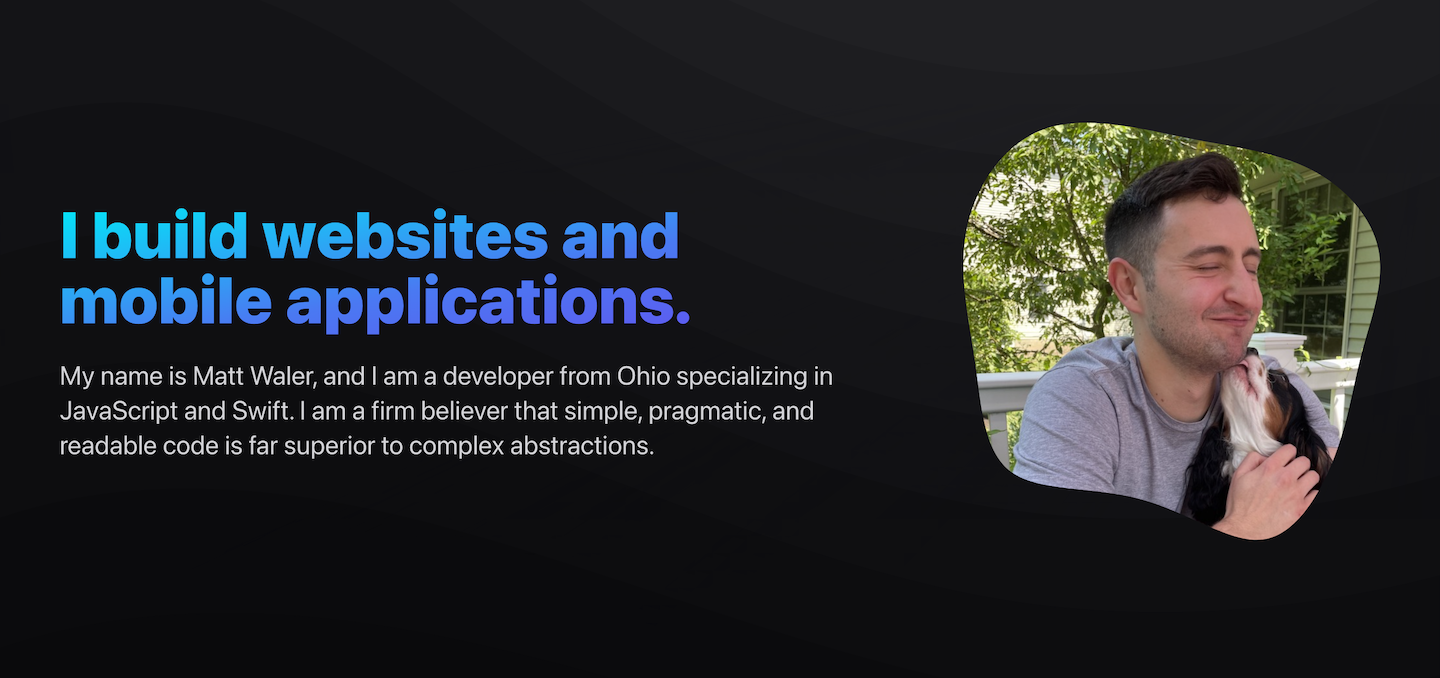
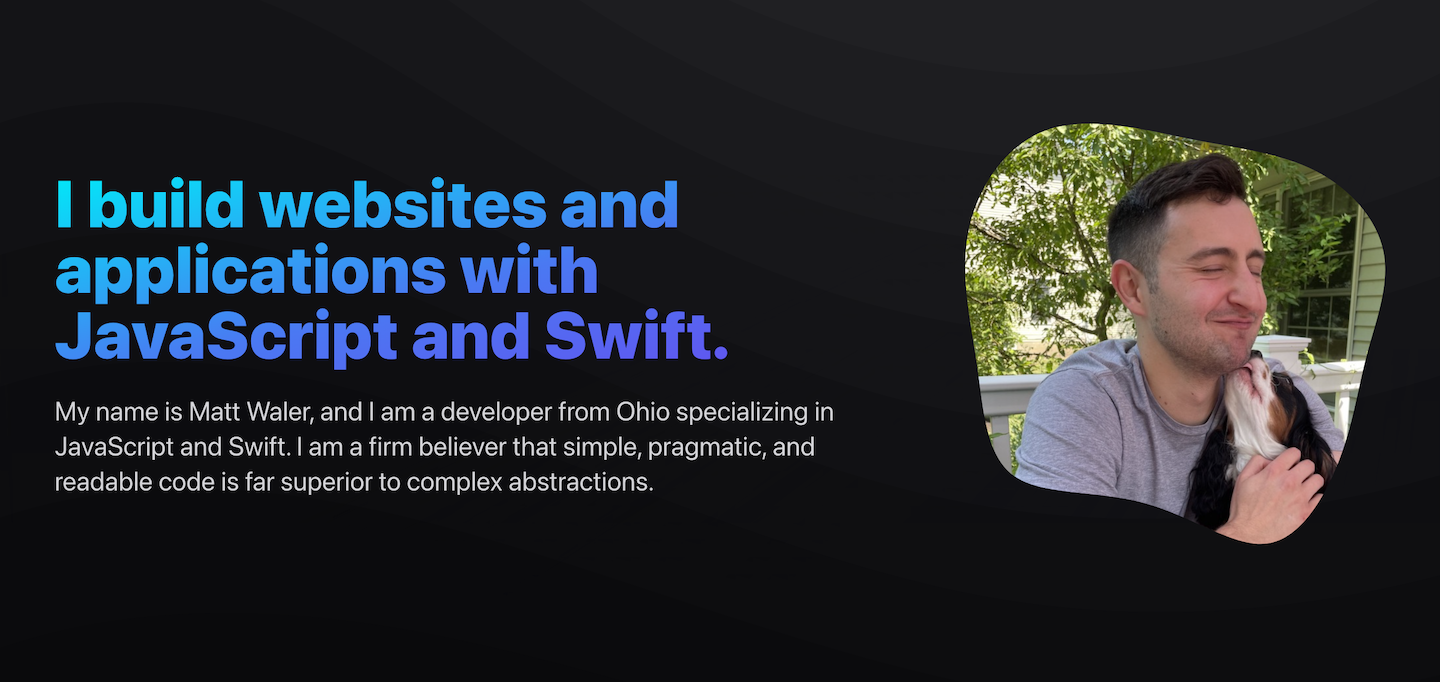
Page title and OG image updates

diff --git a/app/websites/page.tsx b/app/websites/page.tsx
@@ -4,9 +4,9 @@ import Contact from 'components/ContactCTA'
 
 export const metadata = {
   alternates: {
-    canonical: 'https://mattwaler.com/websites'
+    canonical: 'https://mattwaler.com/websites',
   },
-  title: 'I create highly engaging and authorable web experiences',
+  title: 'Matt Waler creates highly engaging and authorable web experiences',
   description:
     'I have built a lot of websites since I got started in 2016. Listed below is a non-exhaustive representation of what I have developed and deployed recently.',
 }
@@ -14,7 +14,10 @@ export const metadata = {
 export default function Work() {
   return (
     <>
-      <Hero heading={`${metadata.title}.`} paragraph={metadata.description} />
+      <Hero
+        heading={`I create highly engaging and authorable web experiences.`}
+        paragraph={metadata.description}
+      />
       <Listing />
       <Contact />
     </>

diff --git a/app/contact/page.tsx b/app/contact/page.tsx
@@ -7,9 +7,9 @@ export const metadata = {
   alternates: {
     canonical: 'https://mattwaler.com/contact',
   },
-  title: "Let's get in touch",
+  title: "Contact Matt Waler",
   description: `
-      Thank you for taking the time to poke around my site!
+      Thank you for taking the time to view my website.
       If you are interested in connecting, fill out the contact form below.
       I will get back to you as soon as possible.
     `,
@@ -18,7 +18,7 @@ export const metadata = {
 export default function Contact() {
   return (
     <>
-      <Hero heading={`${metadata.title}.`} paragraph={metadata.description} />
+      <Hero heading={`Let's get in touch.`} paragraph={metadata.description} />
       <div className="grid items-center grid-cols-1 container section-spacing md:gap-16 md:grid-cols-2 lg:gap-32">
         <Form />
         <Image

diff --git a/app/instruction/page.tsx b/app/instruction/page.tsx
@@ -8,7 +8,7 @@ export const metadata = {
   alternates: {
     canonical: 'https://mattwaler.com/instruction'
   },
-  title: 'Schedule a personalized pair programming session',
+  title: 'Matt Waler offers personalized pair programming sessions for Frontend and Swift Development',
   description:
     'I offer pair programming sessions for developers to help sharpen their skills with modern frontend tools and frameworks. Ask questions as you work alongside a living breathing person.',
 }
@@ -16,7 +16,7 @@ export const metadata = {
 export default function Instruction() {
   return (
     <>
-      <Hero heading={`${metadata.title}.`} paragraph={metadata.description} />
+      <Hero heading={`Schedule a personalized pair programming session.`} paragraph={metadata.description} />
       <Overview />
       <Offerings />
       <Pricing />

diff --git a/app/apps/page.tsx b/app/apps/page.tsx
@@ -6,7 +6,7 @@ export const metadata = {
   alternates: {
     canonical: 'https://mattwaler.com/apps'
   },
-  title: 'I create simple and powerful applications for any Apple Device',
+  title: 'Matt Waler creates simple and powerful applications for any Apple Device',
   description:
     'I have recently started dipping my toes into Swift and iOS applications. Take a look at what I have completed so far.',
 }
@@ -14,7 +14,10 @@ export const metadata = {
 export default function Work() {
   return (
     <>
-      <Hero heading={`${metadata.title}.`} paragraph={metadata.description} />
+      <Hero
+        heading={`I create simple and powerful applications for any Apple Device.`}
+        paragraph={metadata.description}
+      />
       <Listing />
       <Contact />
     </>

diff --git a/app/page.tsx b/app/page.tsx
@@ -18,7 +18,7 @@ export default function Home() {
   return (
     <>
       <Hero
-        heading={`I build websites and mobile applications.`}
+        heading={`I build websites and applications with JavaScript and Swift.`}
         paragraph={metadata.description}
         image={tripp}
       />

diff --git a/app/layout.tsx b/app/layout.tsx
@@ -20,7 +20,7 @@ export const metadata: Metadata = {
       url: 'https://mattwaler.com/assets/og.png',
       alt: 'Matt Waler Logo',
       width: 1440,
-      height: 678,
+      height: 682,
     }],
     locale: 'en_US',
     siteName: 'Matt Waler',
